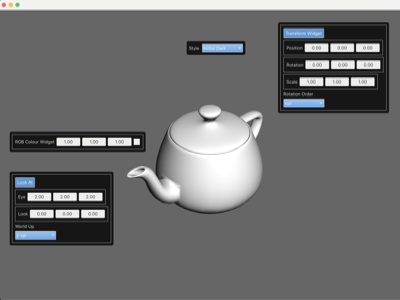
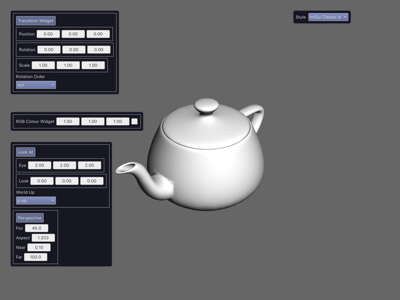
fix: read the frame back so QMLWebGPUOverlay draws the teapot
PyNGLScene.paintWebGPU() rendered the teapot into its textures and then
stopped. Since ncca-ngl Version1.0 the copy back to the CPU frame buffer
is the subclass's job rather than WebGPUWidget.paintEvent's, and this
demo never made the call, so QPainter blitted a buffer of zeros - the
viewport was empty under the QML panels. Probing the running scene showed
frame_buffer min/max/mean all 0 after 1.5s; with the readback in place it
reads 26/255/146 and the teapot is there.

Same fault as SpatialHash3D in 0a64470. Checked every demo with a
paintWebGPU: this was the last one missing it.

pipelined_readback stays off. The scene only repaints in response to
panel edits and mouse events, so presenting a frame late would leave a
one-off change unshown until some later unrelated event.

Also retook the screenshot, which was of the empty viewport.

Claude-Session: https://claude.ai/code/session_0171ZkUQXTDB28hNjTwvdekJ

diff --git a/GUIDemos/QMLWebGPUOverlay/PyNGLScene.py b/GUIDemos/QMLWebGPUOverlay/PyNGLScene.py
@@ -85,6 +85,11 @@ class PyNGLScene(WebGPUWidget):
             self.multisample_texture_view,
             self.depth_buffer_view,
         )
+        # Copy the resolved colour target back into the numpy frame buffer the
+        # widget blits with QPainter. Since ncca-ngl Version1.0 this is the
+        # subclass's job, not paintEvent's - without it the render pass fills
+        # its textures and nothing ever reaches the screen.
+        self._update_colour_buffer()
 
     def resizeWebGPU(self, width: int, height: int) -> None:
         self.project = perspective(
